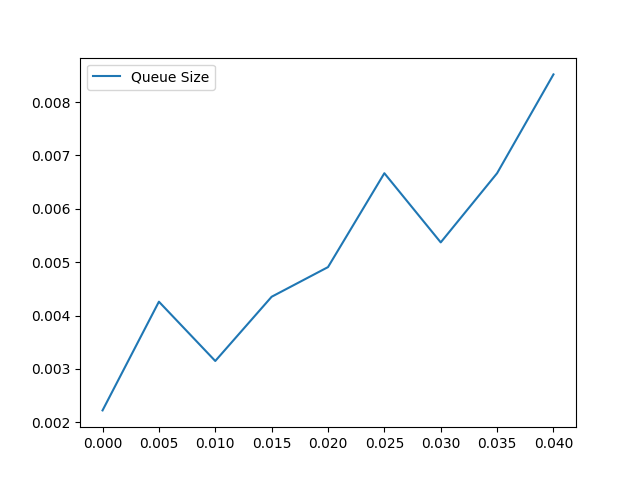
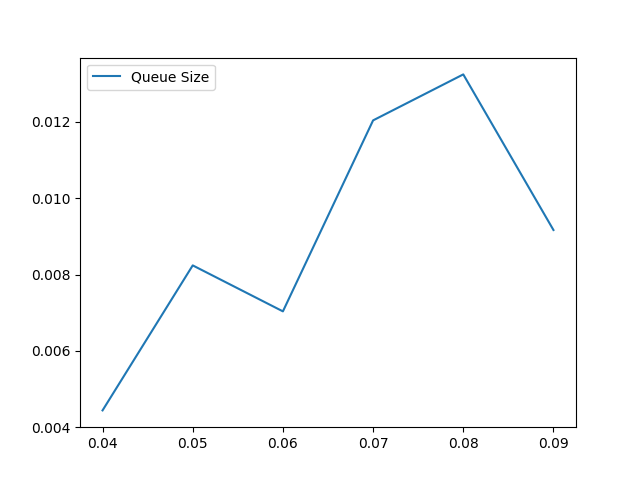
Updates paper plots for this exp

diff --git a/utils/plot_for_paper.py b/utils/plot_for_paper.py
@@ -3,7 +3,7 @@
 import pylab
 import pandas as pd
 
-ROOT_DIR = "../batch_output/sfo-terminal-2-uc-success-long-uc/"
+ROOT_DIR = "../batch_output/sfo-terminal-2-uc-success-long-uc-2/"
 METRICS_CSV = ROOT_DIR + "metrics.csv"
 FAILED_CSV = ROOT_DIR + "logs.csv"
 # INDEX = "simulation.reschedule_cycle"
